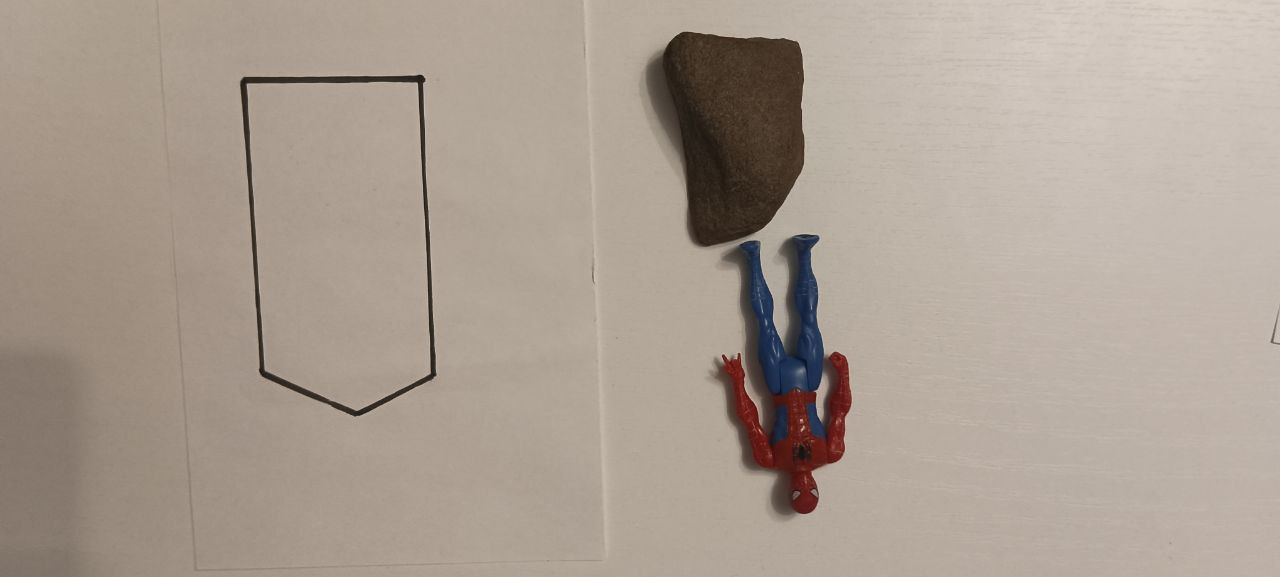
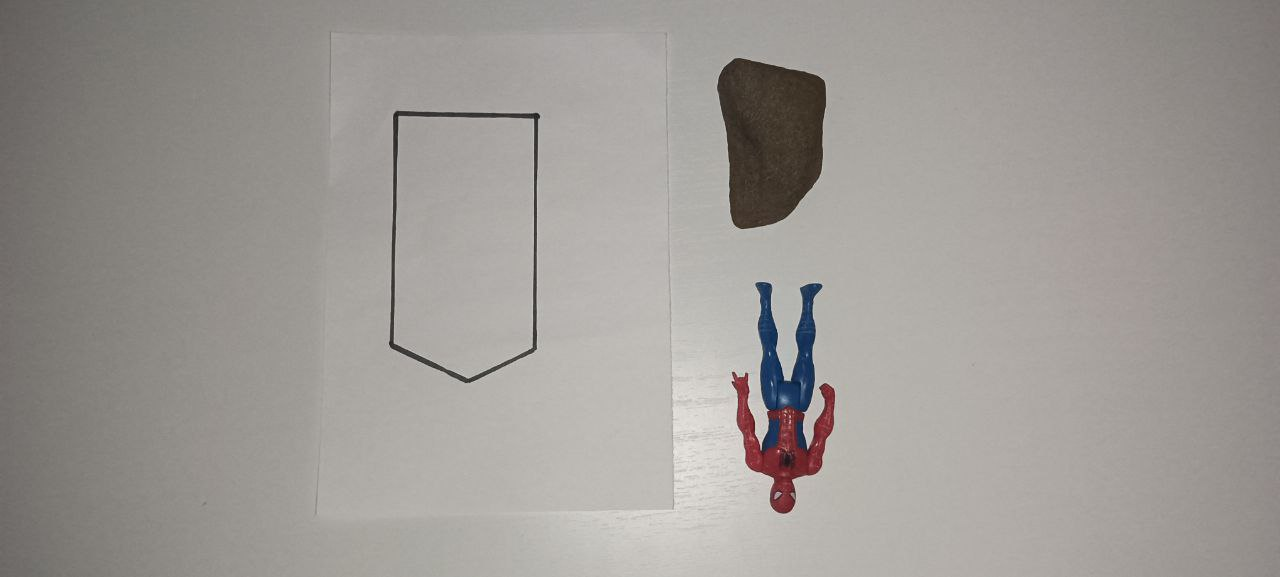
Recaptured some shots and improved object recognition

diff --git a/intelligent_placer_lib/object.py b/intelligent_placer_lib/object.py
@@ -52,6 +52,10 @@ class object:
         clusters_weight = [x / total_sum for x in clusters_weight]
         self.dominant_colors = [(clusters_weight[index], [float(x[0]), float(x[1]), float(x[2])]) for index, x in enumerate(kmeans.cluster_centers_)]
         self.dominant_colors.sort(key = lambda x: -x[0])
+        #medium = np.median(self.hull, axis=0).astype(np.int)
+        #self.hull = self.hull - medium
+
+    def centerize(self):
         medium = np.median(self.hull, axis=0).astype(np.int)
         self.hull = self.hull - medium
 
@@ -85,8 +89,8 @@ class object:
                                 enumerate(kmeans.cluster_centers_)]
         new_object.dominant_colors.sort(key=lambda x: -x[0])
 
-        medium = np.median(new_object.hull, axis=0).astype(np.int)
-        new_object.hull = new_object.hull - medium
+        #medium = np.median(new_object.hull, axis=0).astype(np.int)
+        #new_object.hull = new_object.hull - medium
         return new_object
 
 # this function will load dataset
@@ -102,11 +106,12 @@ def detect_objects(image, objects_dataset):
     rezult = []
 
     # lets find contours on our image
-    img_gray = cv2.cvtColor(image, cv2.COLOR_BGR2GRAY)
+    image_norm = utils.normalize_image(image)
+    img_gray = cv2.cvtColor(image_norm, cv2.COLOR_BGR2GRAY)
     img_gauss = cv2.GaussianBlur(img_gray, (5, 5), 0)
 
     #threshold image
-    res, img_threshold = cv2.threshold(img_gauss, 123, 255, cv2.THRESH_BINARY)
+    res, img_threshold = cv2.threshold(img_gauss, 230, 255, cv2.THRESH_BINARY)
 
     # find countours on binary thresholded image
     contours, hierarchy = cv2.findContours(image=img_threshold, mode=cv2.RETR_TREE, method=cv2.CHAIN_APPROX_NONE)
@@ -115,7 +120,8 @@ def detect_objects(image, objects_dataset):
     convex_contours = []
     for i in range(len(contours)):
         if (cv2.contourArea(contours[i]) <= 0.5 * img_threshold.shape[0] * img_threshold.shape[1] and
-            cv2.contourArea(contours[i]) >= 0.002 * img_threshold.shape[0] * img_threshold.shape[1]):
+            cv2.contourArea(contours[i]) >= 0.002 * img_threshold.shape[0] * img_threshold.shape[1] and
+            hierarchy[0][hierarchy[0][i][3]][3] == -1):
             convex_contours.append(cv2.convexHull(contours[i]))
 
     # add each of them as a contour
@@ -151,9 +157,9 @@ def detect_objects(image, objects_dataset):
             cv2.imshow("Object", obj.image)
             cv2.waitKey(0)
 
-        if (index_min != 0):
-            rezult.append(obj)
-            new_contours.append(contour)
+        #if (index_min != 0):
+        rezult.append(obj)
+        new_contours.append(contour)
 
     if (DEBUG_OBJECTS):
         cv2.drawContours(image=image, contours=new_contours, contourIdx=-1, color=(0, 255, 0), thickness=2,

diff --git a/intelligent_placer_lib/utils.py b/intelligent_placer_lib/utils.py
@@ -117,3 +117,20 @@ def rgb_to_hsv(r, g, b):
         s = (df/mx)*100
     v = mx*100
     return h, s, v
+
+def normalize_image(img):
+    rgb_planes = cv2.split(img)
+
+    result_planes = []
+    result_norm_planes = []
+    for plane in rgb_planes:
+        dilated_img = cv2.dilate(plane, np.ones((7, 7), np.uint8))
+        bg_img = cv2.medianBlur(dilated_img, 21)
+        diff_img = 255 - cv2.absdiff(plane, bg_img)
+        norm_img = cv2.normalize(diff_img, None, alpha=0, beta=255, norm_type=cv2.NORM_MINMAX, dtype=cv2.CV_8UC1)
+        result_planes.append(diff_img)
+        result_norm_planes.append(norm_img)
+
+    result = cv2.merge(result_planes)
+    result_norm = cv2.merge(result_norm_planes)
+    return result_norm

diff --git a/intelligent_placer_lib/intelligent_placer.py b/intelligent_placer_lib/intelligent_placer.py
@@ -50,6 +50,8 @@ def check_image(path_to_image_on_local_computer):
             else:
                 return False      
 
+    for obj in objects:
+        obj.centerize()
     #check if each object can be placed
     for obj in objects:
         if not place_one_object(obj.hull, con.hull):

diff --git a/README.md b/README.md
@@ -27,6 +27,7 @@
 - Объекты и многоугольник должны целиком помещаться на фото
 - Объекты должны распологаться вне многоугольника
 - Многоугольник задаётся черным маркером на белом листе бумаги.
+- Тени от объектов будут рассмотрены как часть этих объектов.
 
 ### Фотометрические
 - фотографии должны быть в формате *\*.jpg*

diff --git a/test_cases/README.md b/test_cases/README.md
@@ -75,7 +75,7 @@
 Ответ: True
 
 ![test 17](17.jpg "test 17")
-Ответ: False
+Ответ: True
 
 ![test 18](18.jpg "test 18")
 Ответ: True
